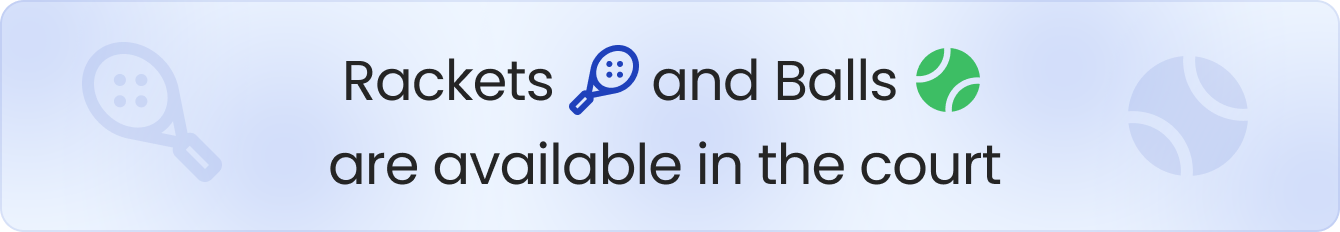
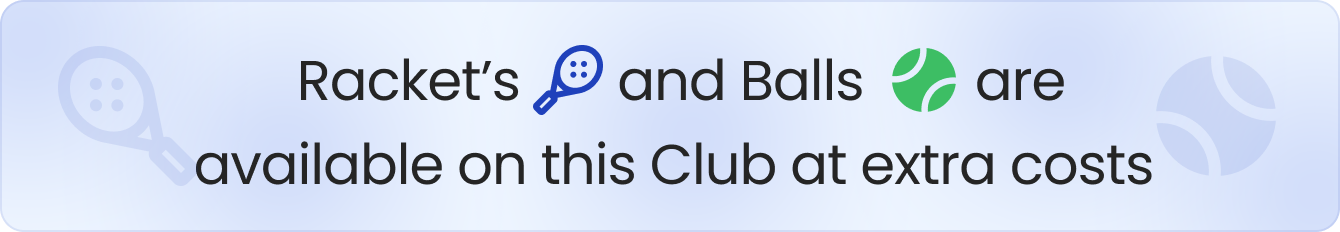
google map fixes

Changed region(s): [[0.1224, 0.6034, 0.8567, 0.8147], [0.2142, 0.181, 0.7955, 0.4828]]

diff --git a/lib/presentations/booking/home_content/home_content.dart b/lib/presentations/booking/home_content/home_content.dart
@@ -869,77 +869,9 @@ class HomeContent extends StatelessWidget {
       }
       
       if (controller.isIframeUrl.value && controller.iframeUrl.value.isNotEmpty) {
-        // Create HTML with iframe and JavaScript to handle clicks
-        final htmlContent = '''
-          <!DOCTYPE html>
-          <html>
-            <head>
-              <meta name="viewport" content="width=device-width, initial-scale=1.0">
-              <style>
-                body, html {
-                  margin: 0;
-                  padding: 0;
-                  height: 100%;
-                  overflow: hidden;
-                }
-                iframe {
-                  width: 100%;
-                  height: 100%;
-                  border: 0;
-                  pointer-events: auto;
-                }
-              </style>
-            </head>
-            <body>
-              <iframe 
-                src="${controller.iframeUrl.value}" 
-                allowfullscreen
-                referrerpolicy="no-referrer-when-downgrade">
-              </iframe>
-            </body>
-          </html>
-        ''';
-        
-        // Create WebViewController
-        final webViewController = WebViewController()
-          ..setJavaScriptMode(JavaScriptMode.unrestricted)
-          ..setBackgroundColor(Colors.white)
-          ..setNavigationDelegate(
-            NavigationDelegate(
-              onNavigationRequest: (NavigationRequest request) {
-                final url = request.url;
-                print('🗺 Navigation: $url');
-                
-                // Allow data URLs and about:blank
-                if (url.startsWith('data:') || url.startsWith('about:')) {
-                  return NavigationDecision.navigate;
-                }
-                
-                // Allow embed URLs
-                if (url.contains('/maps/embed/') || url.contains('maps/api/js')) {
-                  return NavigationDecision.navigate;
-                }
-                
-                // Intercept any other Google Maps URLs
-                if (url.contains('google.com/maps') || url.contains('maps.google.com')) {
-                  print('🚀 Opening external: $url');
-                  launchUrl(
-                    Uri.parse(url),
-                    mode: LaunchMode.externalApplication,
-                  );
-                  return NavigationDecision.prevent;
-                }
-                
-                // Block all other navigation
-                return NavigationDecision.prevent;
-              },
-            ),
-          )
-          ..loadHtmlString(htmlContent);
-        
-        return ClipRRect(
-          borderRadius: BorderRadius.circular(12),
-          child: WebViewWidget(controller: webViewController),
+        return GoogleMapsWebView(
+          key: ValueKey(controller.iframeUrl.value),
+          iframeUrl: controller.iframeUrl.value,
         );
       }
       
@@ -970,6 +902,128 @@ class HomeContent extends StatelessWidget {
       );
     });
   }
+}
 
+class GoogleMapsWebView extends StatefulWidget {
+  final String iframeUrl;
 
+  const GoogleMapsWebView({super.key, required this.iframeUrl});
+
+  @override
+  State<GoogleMapsWebView> createState() => _GoogleMapsWebViewState();
+}
+
+class _GoogleMapsWebViewState extends State<GoogleMapsWebView> {
+  late final WebViewController _webViewController;
+  bool _isLoading = true;
+
+  @override
+  void initState() {
+    super.initState();
+    
+    // Create HTML with iframe and JavaScript to handle clicks
+    final htmlContent = '''
+      <!DOCTYPE html>
+      <html>
+        <head>
+          <meta name="viewport" content="width=device-width, initial-scale=1.0">
+          <style>
+            body, html {
+              margin: 0;
+              padding: 0;
+              height: 100%;
+              overflow: hidden;
+            }
+            iframe {
+              width: 100%;
+              height: 100%;
+              border: 0;
+              pointer-events: auto;
+            }
+          </style>
+        </head>
+        <body>
+          <iframe 
+            src="${widget.iframeUrl}" 
+            allowfullscreen
+            referrerpolicy="no-referrer-when-downgrade">
+          </iframe>
+        </body>
+      </html>
+    ''';
+
+    _webViewController = WebViewController()
+      ..setJavaScriptMode(JavaScriptMode.unrestricted)
+      ..setBackgroundColor(Colors.white)
+      ..setNavigationDelegate(
+        NavigationDelegate(
+          onPageStarted: (String url) {
+            setState(() {
+              _isLoading = true;
+            });
+          },
+          onPageFinished: (String url) {
+            setState(() {
+              _isLoading = false;
+            });
+          },
+          onWebResourceError: (WebResourceError error) {
+            setState(() {
+              _isLoading = false;
+            });
+          },
+          onNavigationRequest: (NavigationRequest request) {
+            final url = request.url;
+            print('🗺 Navigation: $url');
+            
+            // Allow data URLs and about:blank
+            if (url.startsWith('data:') || url.startsWith('about:')) {
+              return NavigationDecision.navigate;
+            }
+            
+            // Allow embed URLs
+            if (url.contains('/maps/embed/') || url.contains('maps/api/js')) {
+              return NavigationDecision.navigate;
+            }
+            
+            // Intercept any other Google Maps URLs
+            if (url.contains('google.com/maps') || url.contains('maps.google.com')) {
+              print('🚀 Opening external: $url');
+              launchUrl(
+                Uri.parse(url),
+                mode: LaunchMode.externalApplication,
+              );
+              return NavigationDecision.prevent;
+            }
+            
+            // Block all other navigation
+            return NavigationDecision.prevent;
+          },
+        ),
+      )
+      ..loadHtmlString(htmlContent);
+  }
+
+  @override
+  Widget build(BuildContext context) {
+    return Stack(
+      children: [
+        ClipRRect(
+          borderRadius: BorderRadius.circular(12),
+          child: WebViewWidget(controller: _webViewController),
+        ),
+        if (_isLoading)
+          Positioned.fill(
+            child: Container(
+              color: Colors.white,
+              child: const Center(
+                child: LoadingWidget(
+                  color: AppColors.primaryColor,
+                ),
+              ),
+            ),
+          ),
+      ],
+    );
+  }
 }

diff --git a/lib/core/endpoitns.dart b/lib/core/endpoitns.dart
@@ -2,14 +2,14 @@ class AppEndpoints {
   AppEndpoints._();
 
   /// -----------------------Staging URL--------------------------------------------
-  // static const String base = "https://padelstagingmobileapi.swootapp.com/api/";
-  // static const String socketUrl = "https://padelstagingmobileapi.swootapp.com";
+  static const String base = "https://padelstagingmobileapi.swootapp.com/api/";p
+  static const String socketUrl = "https://padelstagingmobileapi.swootapp.com";
   /// -----------------------New Live URL------------------------------------------
   // static const String base = "https://apimobile.swootapp.com/api/";
   // static const String socketUrl = "https://apimobile.swootapp.com";
   // ///-----------------------Local URL-----------------------------------------------
-  static const String base = "http://192.168.1.29:5070/api/";
-  static const String socketUrl = "http://192.168.1.29:5070";
+  // static const String base = "http://192.168.1.29:5070/api/";
+  // static const String socketUrl = "http://192.168.1.29:5070";
 
   static const String baseUrl = "${base}customer/";
   // static const String login = "${baseUrl}customerLogin";
